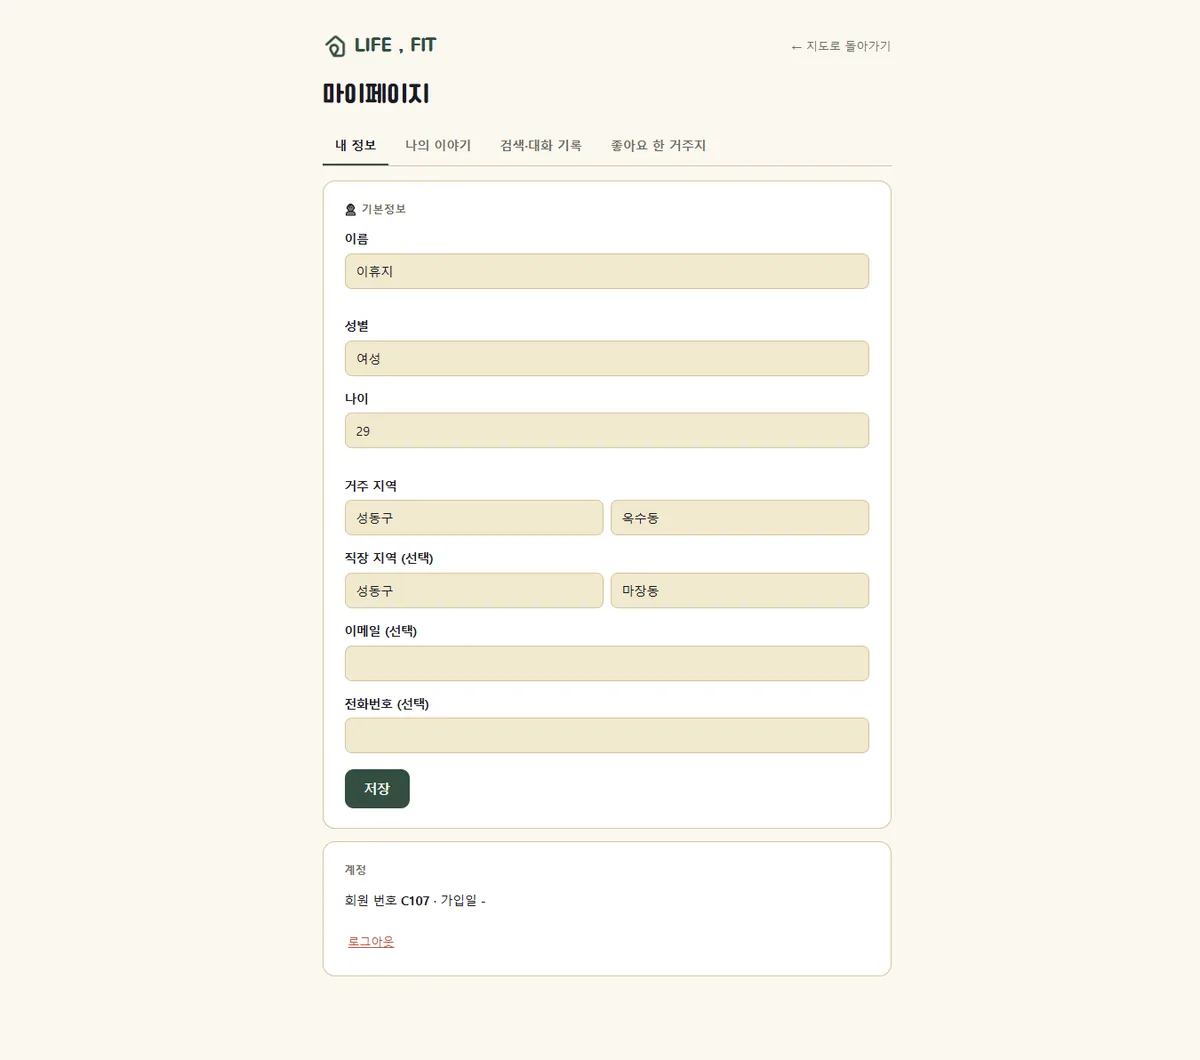
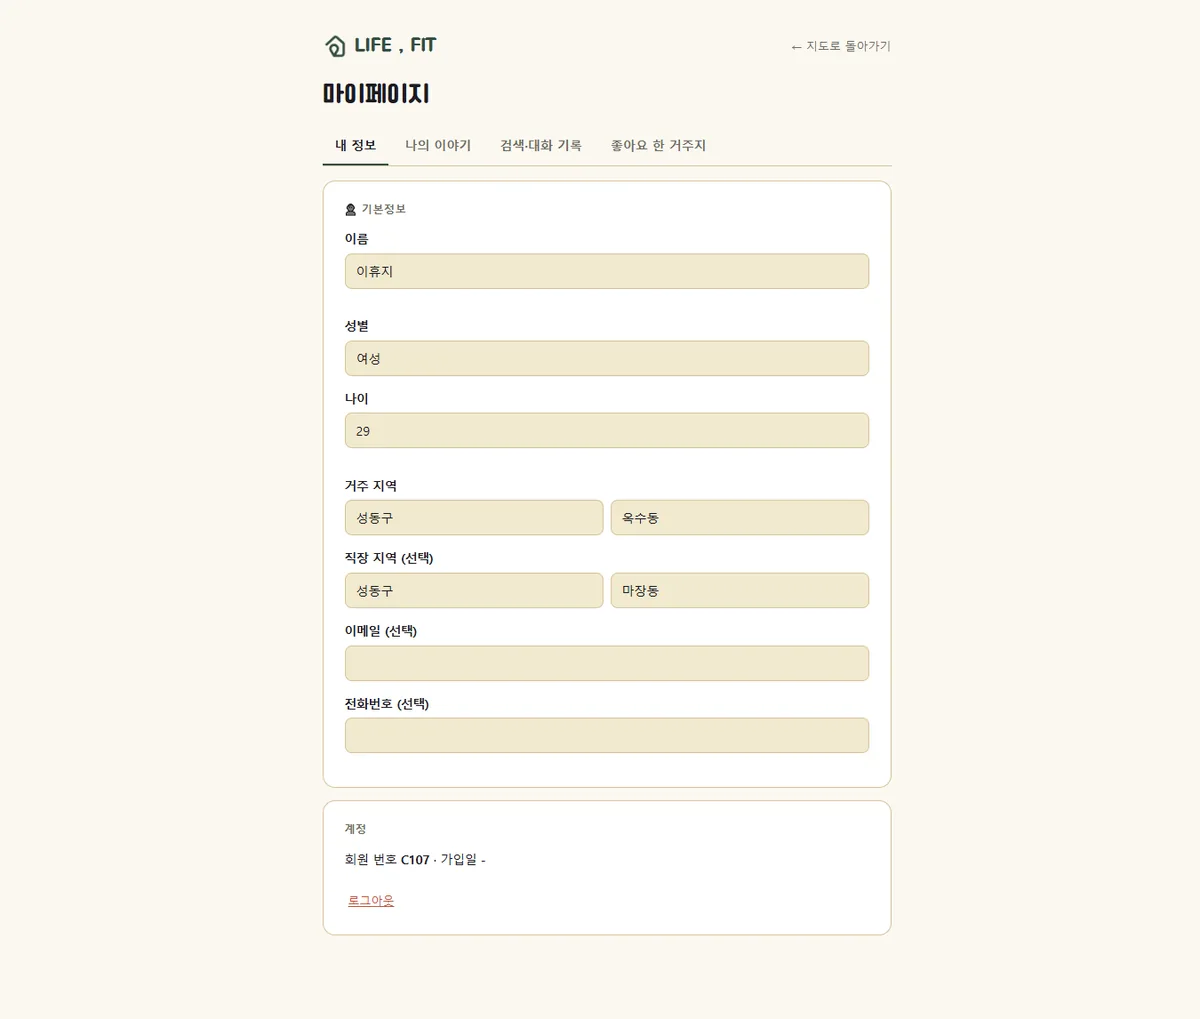
fix: 이용 안내 마이페이지 그림을 읽기 전용 화면(저장 버튼 없음)으로, 번호 자리 맞춤

Changed region(s): [[0.2775, 0.0304, 0.74, 0.8518], [0.6783, 0.0304, 0.74, 0.0608], [0.2775, 0.8822, 0.3392, 0.9127]]

diff --git a/frontend/ui/sources.js b/frontend/ui/sources.js
@@ -142,8 +142,8 @@ const GUIDE = [
         "검색 · 대화 기록 — 로그인한 뒤의 검색어와 채팅 문답",
         "좋아요 한 거주지 — 핀 상세의 ♥ 로 모은 동네. 취소도 여기서",
       ] },
-      { n: 2, x: 26.9, y: 17.0, head: "내 정보", lines: ["가입 때 적은 정보. 지금은 보기만 할 수 있어요"] },
-      { n: 3, x: 26.9, y: 79.3, head: "계정", lines: ["회원 번호 · 가입일 · 로그아웃"] },
+      { n: 2, x: 26.9, y: 17.8, head: "내 정보", lines: ["가입 때 적은 정보. 지금은 보기만 할 수 있어요"] },
+      { n: 3, x: 26.9, y: 78.8, head: "계정", lines: ["회원 번호 · 가입일 · 로그아웃"] },
     ],
   },
 ];
